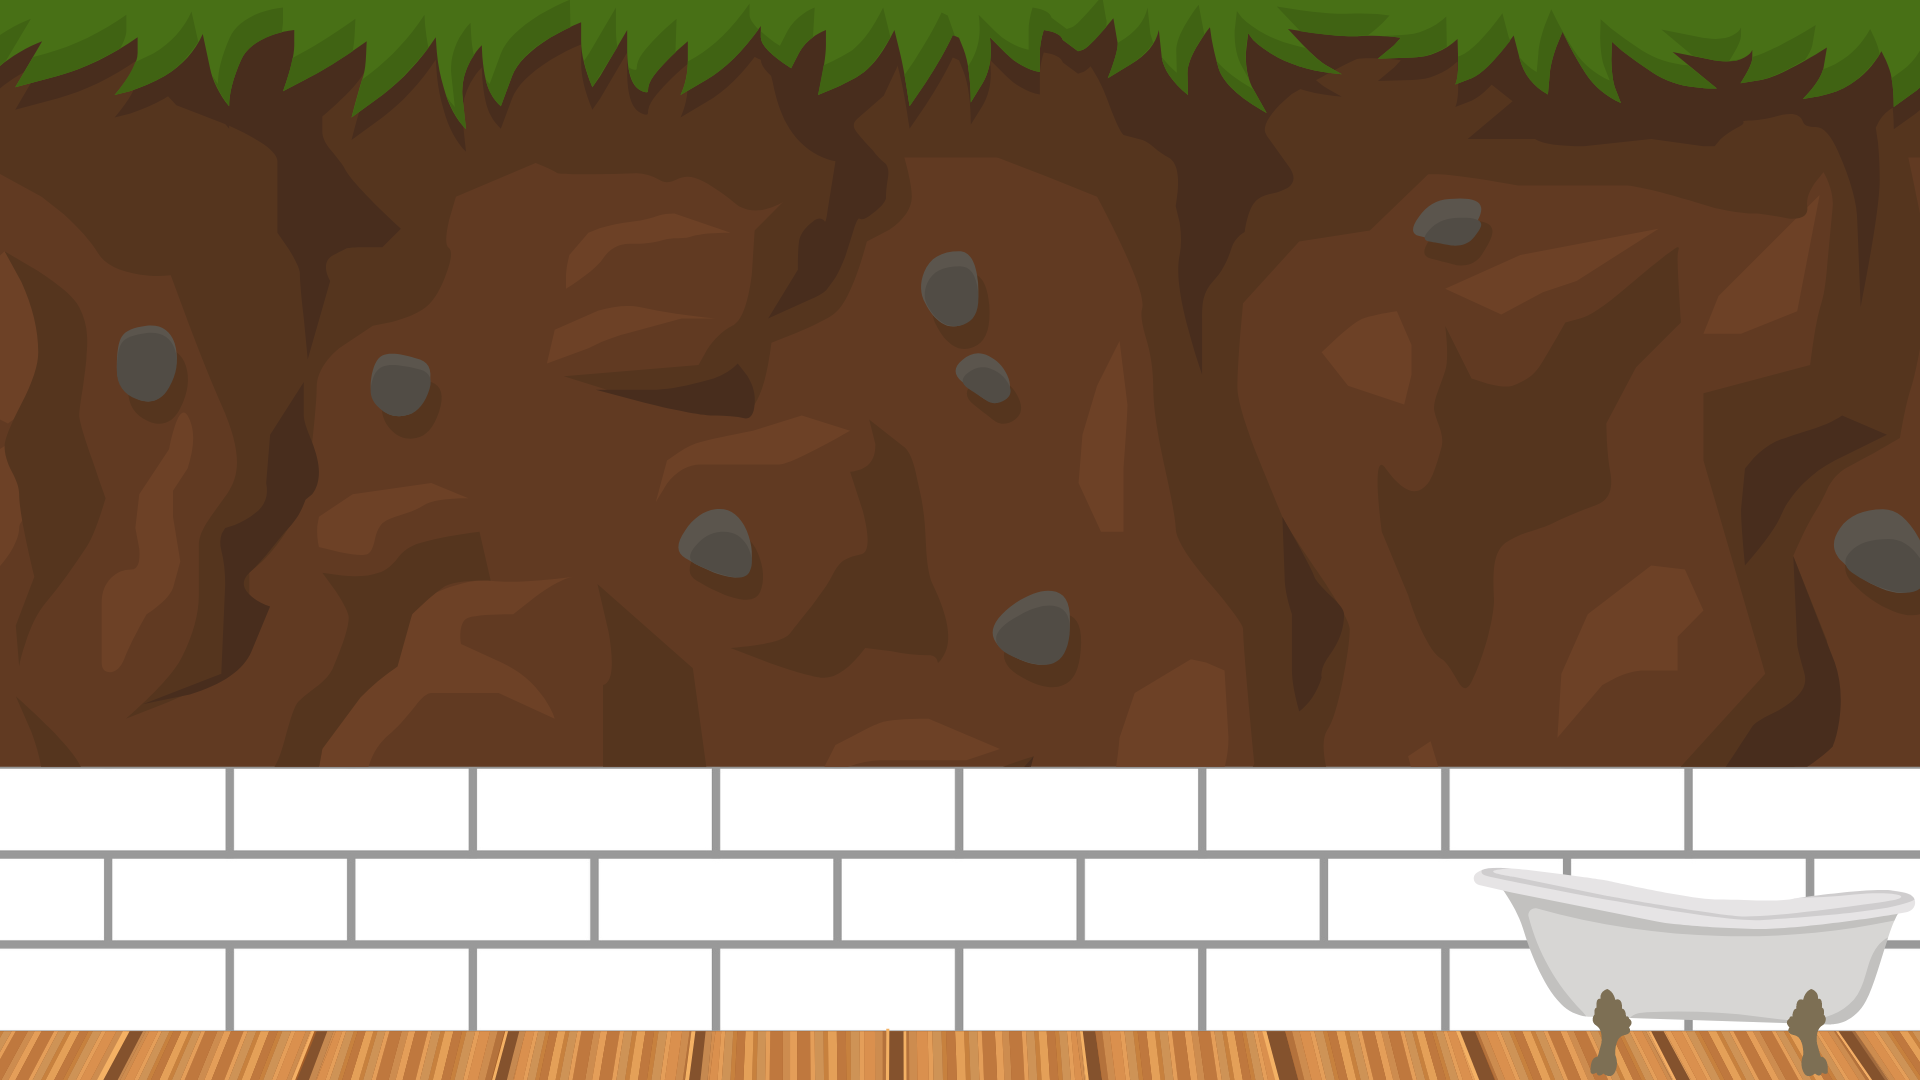
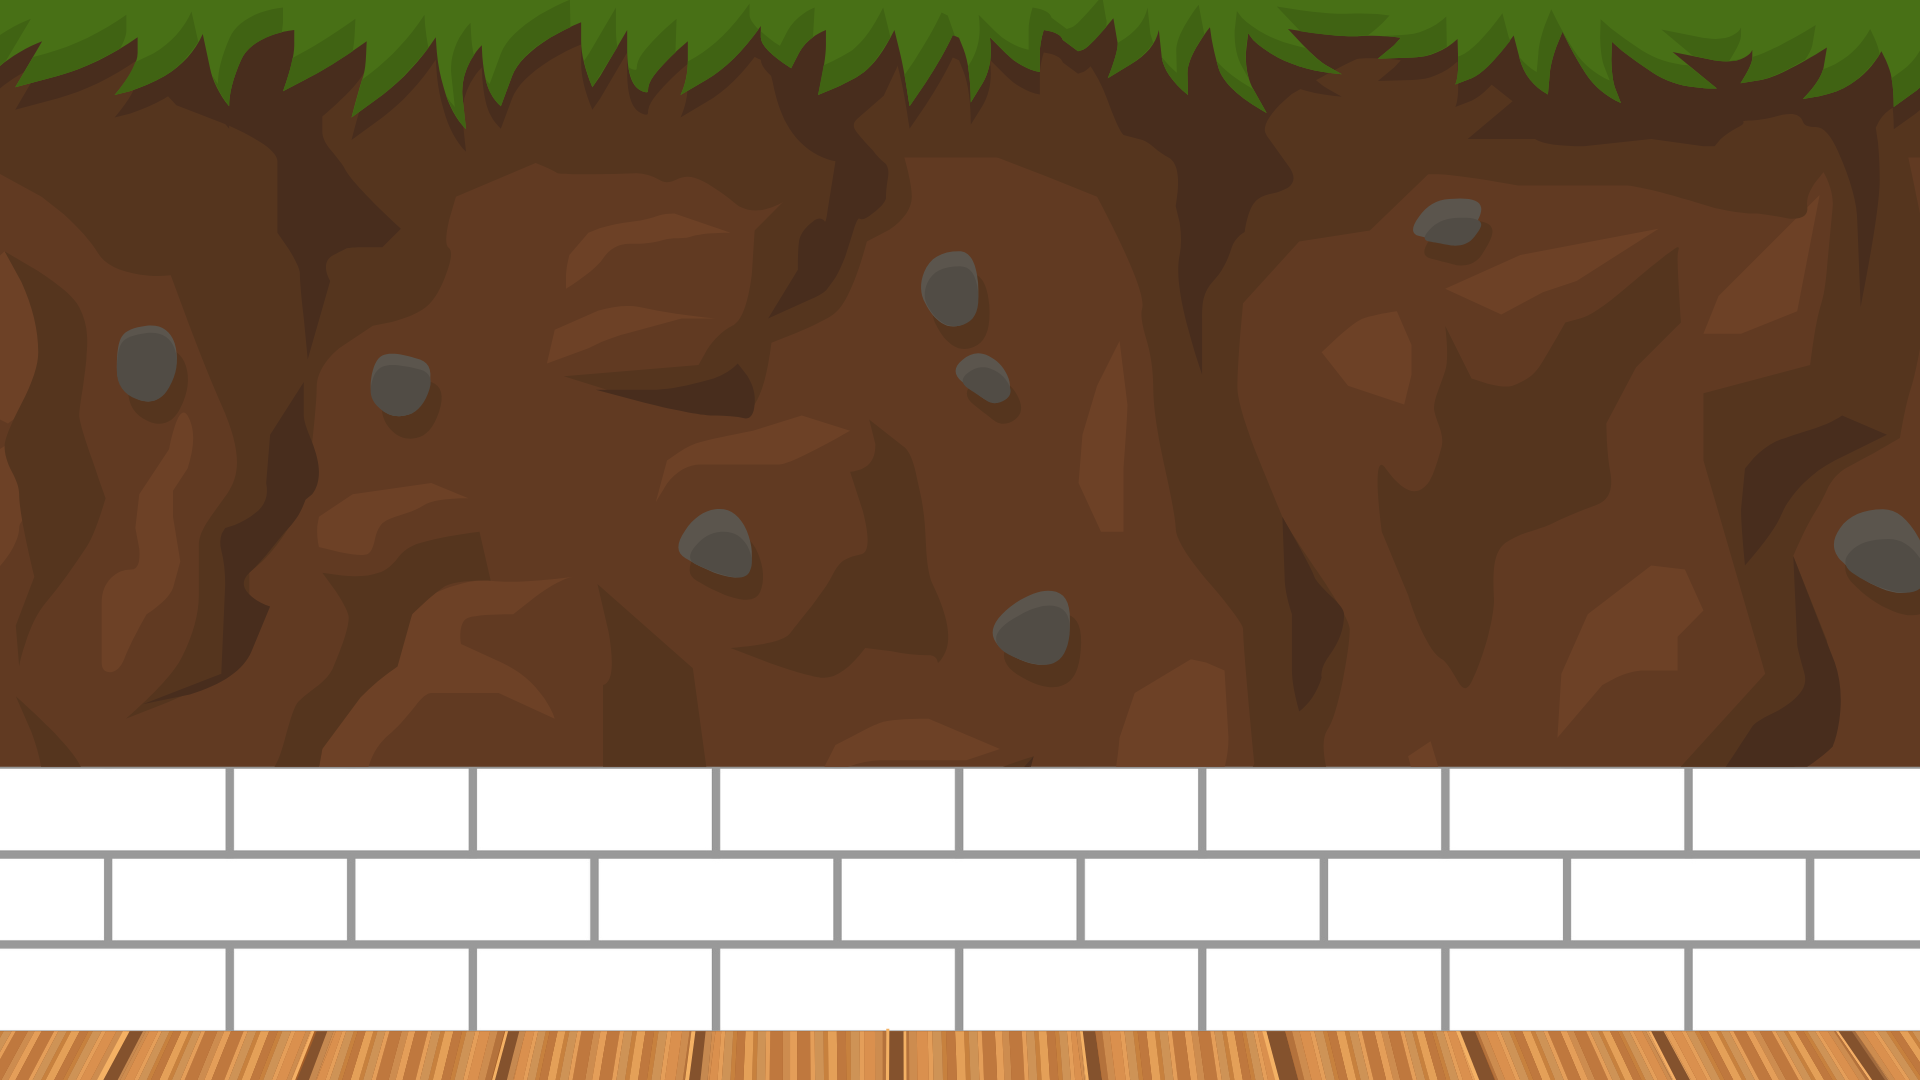
structurando pipes (not finnish)

Changed region(s): [[0.75, 0.7944, 1.0, 1.0]]

diff --git a/src/scenes/Game.js b/src/scenes/Game.js
@@ -5,6 +5,11 @@ var gameOver = false;
 var scoreTime;
 var tiempo = 0;
 var LlegoTrayectoFinal = false;
+var primerTrayecto = false;
+var segundoTrayecto = false;
+var tercerTrayecto = false;
+var cuatroTrayecto = false;
+var finalTrayecto = false;
 
 var backgroundMusic;
 var musicaActivada = true;
@@ -22,11 +27,95 @@ export class Game extends Scene {
       .setOrigin(0, 0)
       .setDisplaySize(this.cameras.main.width, this.cameras.main.height);
     ////////////////////////// PIPES /////////////////////////////
+    // pipes
+    //
+    const spritePipePrimero = this.add.sprite(0, 0, "pipe_recto");
+    spritePipePrimero.setScale(0.35);
+    //
+    const spritePipeSegundo = this.add.sprite(0, 0, "pipe_3");
+    spritePipeSegundo.setScale(0.35);
+    //
+    const spritePipeTercero = this.add.sprite(0, 0, "pipe_curvo");
+    spritePipeTercero.setScale(0.35);
+    //
+    const spritePipeCuarto = this.add.sprite(0, 0, "pipe_curvo");
+    spritePipeCuarto.setScale(0.35);
+    //
+    const spritePipeFinal = this.add.sprite(0, 0, "pipe_recto");
+    spritePipeFinal.setScale(0.35);
+    //
+
+    //pipe inicio
+    const spritePipeInicio = this.add.sprite(20, 50, "pipe_inicio");
+    spritePipeInicio.setScale(0.35);
+
+    //containers pipe 1
+    const containerPipe1 = this.add.container(110, 50);
+    containerPipe1.angle = 0 /*180*/; // Girar el sprite 90 grados en el sentido horario
+    if (containerPipe1.angle == 180 || containerPipe1.angle == 0) {
+      primerTrayecto = true;
+    }
+    //add all to container
+    containerPipe1.add(spritePipePrimero);
+    ///////////////////////////////
+    //containers pipe 2
+    const containerPipe2 = this.add.container(200, 50);
+    containerPipe2.angle = 0 /*180*/; // Girar el sprite 90 grados en el sentido horario
+    if (containerPipe2.angle == 0) {
+      segundoTrayecto = true;
+    }
+    //add all to container
+    containerPipe2.add(spritePipeSegundo);
+    ///////////////////////////////
+    //containers pipe 3
+    const containerPipe3 = this.add.container(200, 140);
+    containerPipe3.angle = 180 /*180*/; // Girar el sprite 90 grados en el sentido horario
+    if (containerPipe3.angle == 180) {
+      tercerTrayecto = true;
+    }
+    //add all to container
+    containerPipe3.add(spritePipeTercero);
+    ///////////////////////////////
+    //containers pipe 4
+    const containerPipe4 = this.add.container(290, 50);
+    containerPipe4.angle = 0 /*180*/; // Girar el sprite 90 grados en el sentido horario
+    if (containerPipe4.angle == 0) {
+      tercerTrayecto = true;
+    }
+    //add all to container
+    containerPipe4.add(spritePipeCuarto);
+    ///////////////////////////////
+    const containerPipeFinal = this.add.container(647, 565);
+    containerPipeFinal.angle = 0 /*90*/; // Girar el sprite 90 grados en el sentido horario
+    if (containerPipeFinal.angle == 90 || containerPipeFinal.angle == -90) {
+      finalTrayecto = true;
+    }
+    //add all to container
+    containerPipeFinal.add(spritePipeFinal);
+
+    //////////////////////// WATER /////////////////////////////
+    // Crear un sprite usando el sprite sheet
+    this.water = this.add.sprite(750 + 45, 543 + 94, "water");
+    this.anims.create({
+      key: "corriente",
+      frames: this.anims.generateFrameNumbers("water", {
+        start: 0,
+        end: 7,
+      }), // Cambia estos valores según tu sprite sheet
+      frameRate: 40, // Velocidad de la animación
+      repeat: -1, // -1 para repetir indefinidamente
+    });
+    this.water.anims.play("corriente");
+    this.water.setScale(0.25);
+    this.water.setVisible(false);
+    if (LlegoTrayectoFinal) {
+      this.water.setVisible(true);
+    }
 
     ///////////////////////// GRIFO /////////////////////////////
     // Crear un sprite usando el sprite sheet
-    this.grifo = this.add.sprite(800, 550, "grifo"); // Posición inicial del sprite
-    this.grifo.setScale(0.1); // Reducir el tamaño del grifo
+    this.grifo = this.add.sprite(750, 543, "grifo"); // Posición inicial del sprite
+    this.grifo.setScale(0.2); // Reducir el tamaño del grifo
 
     // Definir una animación del grifo
     this.anims.create({
@@ -38,10 +127,21 @@ export class Game extends Scene {
       frameRate: 10, // Velocidad de la animación
       repeat: -1, // -1 para repetir indefinidamente
     });
-    // Comenzar la animación
-    this.grifo.anims.play("open");
-    //////////////////////// WATER /////////////////////////////
+    // Comenzar la animaciónÇ
+    if (LlegoTrayectoFinal) {
+      this.grifo.anims.play("open");
+    }
+
+    //////////////////////// BAÑERA /////////////////////////////
+    // Añadir el sprite a la escena
+    const spriteBañera = this.add.sprite(
+      this.grifo.x + 100,
+      this.grifo.y + 180,
+      "bañera"
+    );
+    spriteBañera.setScale(0.2);
   }
+
   //////////////////////////////////////////////////// UPDATE //////////////////////////////////////////////////
   update(time, deltaTime) {}
 

diff --git a/src/scenes/Preloader.js b/src/scenes/Preloader.js
@@ -37,6 +37,12 @@ export class Preloader extends Scene {
     this.load.image("sky", "sky.png");
     this.load.image("gameLogo", "LogoGame.png");
     this.load.image("gameBackGround", "BackGroundGame.png");
+    this.load.image("bañera", "bañera.png");
+    this.load.image("pipe_recto", "pipe/recto.png");
+    this.load.image("pipe_inicio", "pipe/12.png");
+    this.load.image("pipe_curvo", "pipe/14.png");
+    this.load.image("pipe_3", "pipe/6.png");
+
     this.load.spritesheet("water", "Water.png", {
       frameWidth: 152,
       frameHeight: 304,
